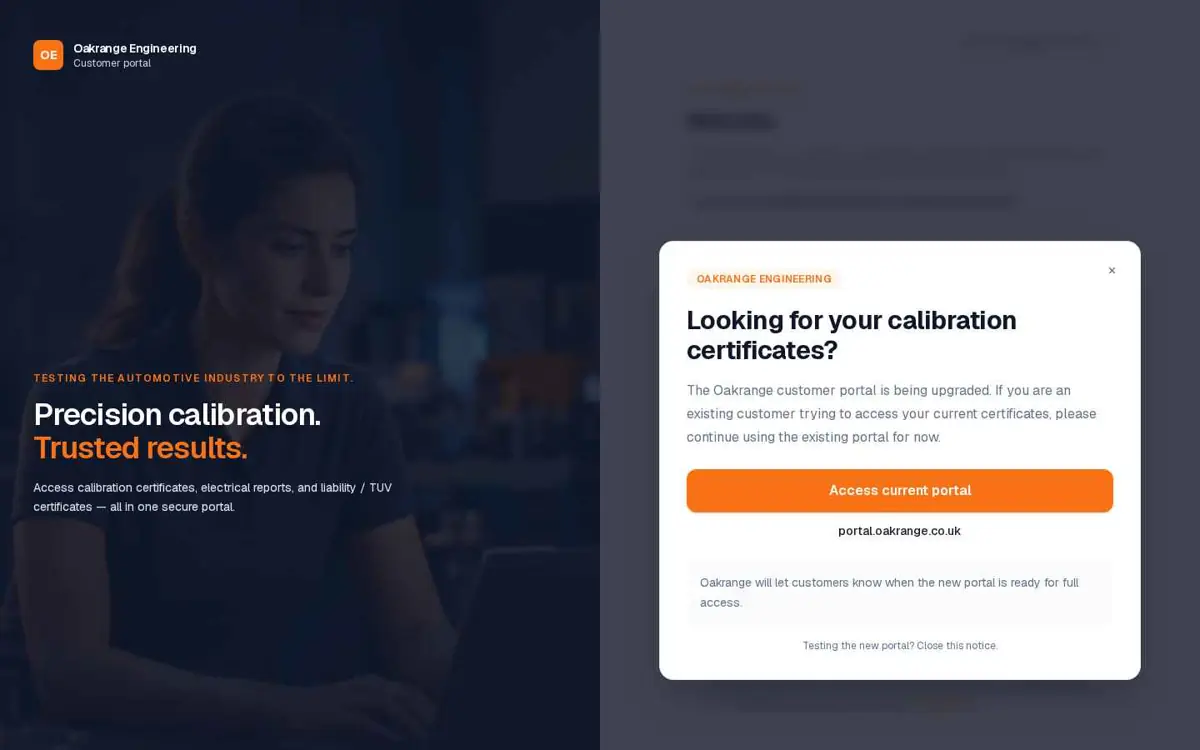
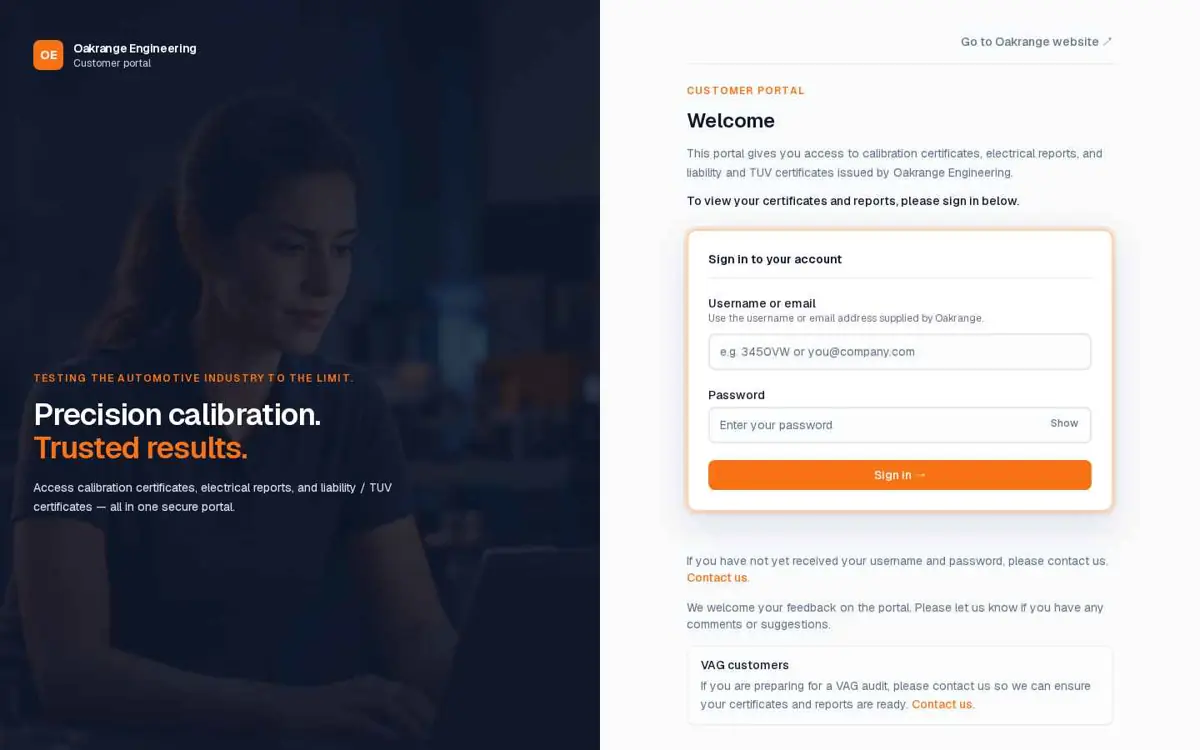
Publish approved portfolio, labels, clean portal capture, test-lead flag

diff --git a/backend/tests/test_test_leads.py b/backend/tests/test_test_leads.py
@@ -1,0 +1,83 @@
+"""Test-lead handling: [TEST] auto-flag, PATCH is_test toggle, reports/CSV exclusion, founder email dashboard link.
+Uses the kept owner-visible TEST lead (TEST_REF) and always restores is_test=True. Creates no new /api/leads rows."""
+import os
+import sys
+
+import pytest
+import requests
+from dotenv import dotenv_values
+
+sys.path.insert(0, "/app/backend")
+from tests.test_adzen_api import BASE_URL, UA, ADMIN_UID, MEMBER_UID, clerk_token  # noqa: E402
+
+TEST_REF = os.environ.get("TEST_LEAD_REF", "AZM-261119-GFPG")
+
+
+@pytest.fixture(scope="module")
+def ah():
+    return {"Authorization": f"Bearer {clerk_token(ADMIN_UID)}", **UA}
+
+
+@pytest.fixture(scope="module")
+def lead(ah):
+    items = requests.get(f"{BASE_URL}/api/admin/leads", params={"q": TEST_REF}, headers=ah, timeout=20).json()["items"]
+    items = [i for i in items if i["reference"] == TEST_REF]
+    if not items:
+        pytest.skip("kept TEST lead not found")
+    yield items[0]
+    requests.patch(f"{BASE_URL}/api/admin/leads/{items[0]['id']}", json={"is_test": True}, headers=ah, timeout=20)
+
+
+def _totals(ah):
+    return requests.get(f"{BASE_URL}/api/admin/reports", headers=ah, timeout=20).json()["totals"]
+
+
+def _csv(ah):
+    r = requests.get(f"{BASE_URL}/api/admin/export.csv", headers=ah, timeout=20)
+    assert r.status_code == 200
+    return r.text
+
+
+# ---- auto flag from [TEST] marker
+def test_auto_flagged(lead):
+    assert lead["is_test"] is True
+
+
+# ---- toggle is_test and verify report/CSV inclusion
+def test_toggle_reports_and_csv(ah, lead):
+    base = _totals(ah)
+    assert TEST_REF not in _csv(ah)
+    r = requests.patch(f"{BASE_URL}/api/admin/leads/{lead['id']}", json={"is_test": False}, headers=ah, timeout=20)
+    assert r.status_code == 200 and r.json()["lead"]["is_test"] is False
+    assert _totals(ah)["leads"] == base["leads"] + 1
+    assert TEST_REF in _csv(ah)
+    r = requests.patch(f"{BASE_URL}/api/admin/leads/{lead['id']}", json={"is_test": True}, headers=ah, timeout=20)
+    assert r.status_code == 200 and r.json()["lead"]["is_test"] is True
+    assert _totals(ah) == base
+    assert TEST_REF not in _csv(ah)
+    g = requests.get(f"{BASE_URL}/api/admin/leads/{lead['id']}", headers=ah, timeout=20).json()
+    assert g["lead"]["is_test"] is True
+
+
+# ---- auth on PATCH
+def test_patch_auth(lead):
+    assert requests.patch(f"{BASE_URL}/api/admin/leads/{lead['id']}", json={"is_test": False}, headers=UA).status_code == 401
+    mh = {"Authorization": f"Bearer {clerk_token(MEMBER_UID)}", **UA}
+    assert requests.patch(f"{BASE_URL}/api/admin/leads/{lead['id']}", json={"is_test": False}, headers=mh).status_code == 403
+
+
+# ---- founder email link = APP_URL + /founder/leads/<id>
+def test_founder_email_link(lead):
+    import re
+    from pymongo import MongoClient
+    be = dotenv_values("/app/backend/.env")
+    for k in ("APP_URL", "SITE_URL"):
+        if be.get(k):
+            os.environ.setdefault(k, be[k])
+    import notify
+    doc = MongoClient(be["MONGO_URL"])[be["DB_NAME"]].leads.find_one({"id": lead["id"]}, {"_id": 0})
+    _, html = notify.founder_email(doc)
+    m = re.search(r'href="([^"]+)"[^>]*>Open lead in dashboard', html)
+    assert m, "dashboard link missing"
+    assert m.group(1) == f"{notify.app_url()}/founder/leads/{lead['id']}"
+    print("LINK", m.group(1))

diff --git a/backend/tests/report_snapshot.py b/backend/tests/report_snapshot.py
@@ -1,0 +1,22 @@
+# Helper: print /api/admin/reports totals and whether a reference appears in export.csv (admin token via Clerk)
+import sys
+import requests
+from dotenv import dotenv_values
+
+fe = dotenv_values("/app/frontend/.env")
+be = dotenv_values("/app/backend/.env")
+BASE = fe["REACT_APP_BACKEND_URL"].rstrip("/")
+UA = {"User-Agent": "adzen-tests"}
+h = {"Authorization": f"Bearer {be['CLERK_SECRET_KEY']}", **UA}
+s = requests.post("https://api.clerk.com/v1/sessions", json={"user_id": "user_3MIblHk8JfGLhYmUWIYARZDsijo"}, headers=h, timeout=20).json()
+tok = requests.post(f"https://api.clerk.com/v1/sessions/{s['id']}/tokens", json={}, headers=h, timeout=20).json()["jwt"]
+ah = {"Authorization": f"Bearer {tok}", **UA}
+r = requests.get(f"{BASE}/api/admin/reports", headers=ah, timeout=20).json()
+print("totals", r.get("totals"))
+csv = requests.get(f"{BASE}/api/admin/export.csv", headers=ah, timeout=20).text
+print("csv_rows", len(csv.strip().splitlines()) - 1)
+for ref in sys.argv[1:]:
+    print(ref, "in_csv", ref in csv)
+    items = requests.get(f"{BASE}/api/admin/leads", params={"q": ref}, headers=ah, timeout=20).json()["items"]
+    for it in items:
+        print({k: it.get(k) for k in ("id", "reference", "is_test", "stage", "source")}, it.get("contact", {}).get("country"))
